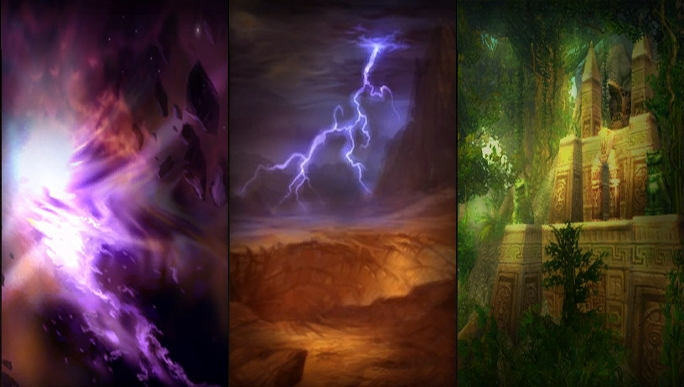
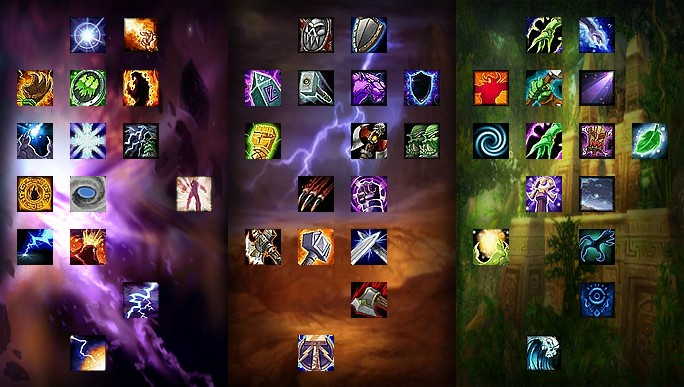
Use baked backgrounds and sprites in talent calculator

diff --git a/js/wow/tool/talent-calculator.js b/js/wow/tool/talent-calculator.js
@@ -403,13 +403,7 @@ function TalentCalculator(options) {
 
         talent.$cell.removeClass('talent-partial talent-full talent-arrow');
 
-        talent.$icon.css('background-image', active ? 'url(' + Wow.Icon.getUrl(talent.icon, 36) + ')' : 'url(http://www.wowprovider.com/img/SpellsGrey/' + talent.icon + '.png)');
-        if(!active) {
-            talent.$icon.css('background-size', '42px 42px');
-            talent.$icon.css('background-position', 'center');
-        }
         if(active) {
-            talent.$icon.css('background-size', '100%');
             if(talent.points < talent.max) {
                 talent.$cell.addClass('talent-partial');
             } else {

diff --git a/protected/views/tool/talentCalculator.php b/protected/views/tool/talentCalculator.php
@@ -1,3 +1,16 @@
+<? $baseUrl = Yii::app()->request->baseUrl; ?>
+<style type="text/css">
+#talentcalc-1 .talentcalc-cell .icon .texture { background-image: url(<?= $baseUrl; ?>/images/wow/talents/icons/1-greyscale.jpg); }
+#talentcalc-2 .talentcalc-cell .icon .texture { background-image: url(<?= $baseUrl; ?>/images/wow/talents/icons/2-greyscale.jpg); }
+#talentcalc-3 .talentcalc-cell .icon .texture { background-image: url(<?= $baseUrl; ?>/images/wow/talents/icons/3-greyscale.jpg); }
+#talentcalc-4 .talentcalc-cell .icon .texture { background-image: url(<?= $baseUrl; ?>/images/wow/talents/icons/4-greyscale.jpg); }
+#talentcalc-5 .talentcalc-cell .icon .texture { background-image: url(<?= $baseUrl; ?>/images/wow/talents/icons/5-greyscale.jpg); }
+#talentcalc-6 .talentcalc-cell .icon .texture { background-image: url(<?= $baseUrl; ?>/images/wow/talents/icons/6-greyscale.jpg); }
+#talentcalc-7 .talentcalc-cell .icon .texture { background-image: url(<?= $baseUrl; ?>/images/wow/talents/icons/7-greyscale.jpg); }
+#talentcalc-8 .talentcalc-cell .icon .texture { background-image: url(<?= $baseUrl; ?>/images/wow/talents/icons/8-greyscale.jpg); }
+#talentcalc-9 .talentcalc-cell .icon .texture { background-image: url(<?= $baseUrl; ?>/images/wow/talents/icons/9-greyscale.jpg); }
+#talentcalc-11 .talentcalc-cell .icon .texture { background-image: url(<?= $baseUrl; ?>/images/wow/talents/icons/11-greyscale.jpg); }
+</style>
 <?php
 $this->breadcrumbs = array(
     'Talent Calculator' => array('/tool/talentCalculator'),
@@ -51,8 +64,8 @@ $this->widget('WProfileSidebarMenu', array('items' => $links));?>
         <span class="clear"><!-- --></span>
     </div>
 
-    <div class="talentcalc-tree" style="width: 228px; height: 387px; background-image: url(/images/wow/talents/backgrounds/7.jpg); background-position: -<?=(228 * $i)?>px 0">
-        <div class="talentcalc-cells-wrapper">
+    <div class="talentcalc-tree" style="width: 228px; height: 387px; background-image: url(/images/wow/talents/backgrounds/<?=$classId?>.jpg); background-position: -<?=(228 * $i)?>px 0">
+        <div id="talentcalc-<?=$classId?>" class="talentcalc-cells-wrapper">
 
 <?php
 $j = 0;
@@ -63,7 +76,7 @@ foreach($data[$i]['talents'] as $tal):
 ?>
     <div class="talentcalc-cell <?=$class?>" style="left: <?=($tal['x'] * 53)?>px; top: <?=($tal['y'] * 53)?>px;" data-id="<?=$tal['id']?>">
         <span class="icon">
-            <span class="texture"></span>
+            <span class="texture" style="background-position: -<?=($j * 36)?>px -<?=($i * 36)?>px;"></span>
 <?php if($tal['keyAbility']): ?>
             <span class="ability"></span>
 <?php endif; ?>
@@ -112,7 +125,10 @@ foreach($data[$i]['talents'] as $tal):
         </span>
 <?php endif; ?>
     </div>
-<?php endforeach; ?>
+<?php
+    $j++;
+endforeach;
+?>
 
 
         </div>
